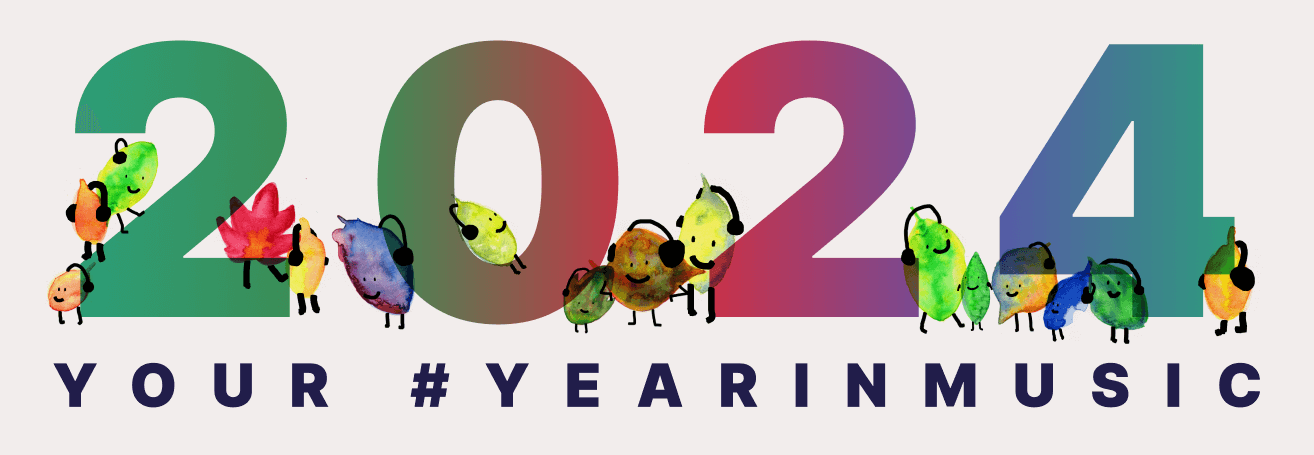
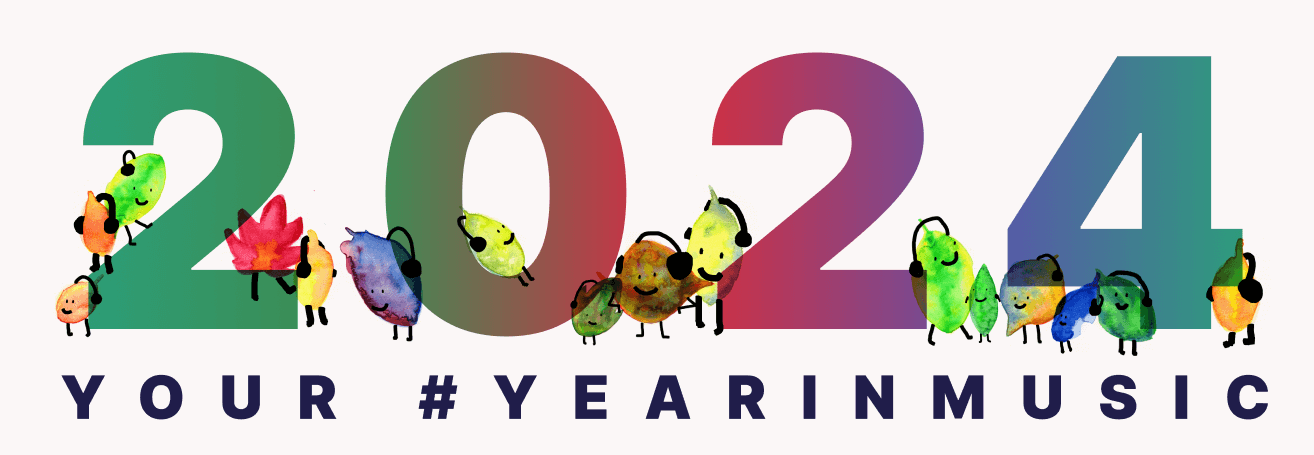
Update email templates according to feedback

diff --git a/listenbrainz/webserver/templates/emails/year_in_music.html b/listenbrainz/webserver/templates/emails/year_in_music.html
@@ -25,7 +25,7 @@
   <![endif]-->
 </head>
 <body>
-<table style="width: 100%; height: 100%; padding: 8px; margin: 0; background-color: #F2EDEC;">
+<table style="width: 100%; height: 100%; padding: 8px; margin: 0; background-color: #FBF7F7;">
   <tr>
     <td style="text-align: center" align="center" valign="middle">
       <center>
@@ -64,7 +64,7 @@
                     previous years has been replaced with album cover mosaics from the most popular releases.
                   </p>
                   <p style="padding-bottom: 14px">
-                    Don't forget to share your stats with in your favourite seasonal theme, with the #yearinmusic
+                    Don't forget to share your stats in your favourite seasonal theme, with the #yearinmusic
                     hashtag. We will be re-posting the hashtag on our channels (bluesky and mastodon links are at the
                     bottom of the email), come see what music has been making everyone's leaves rustle with excitement
                     in the past year.
